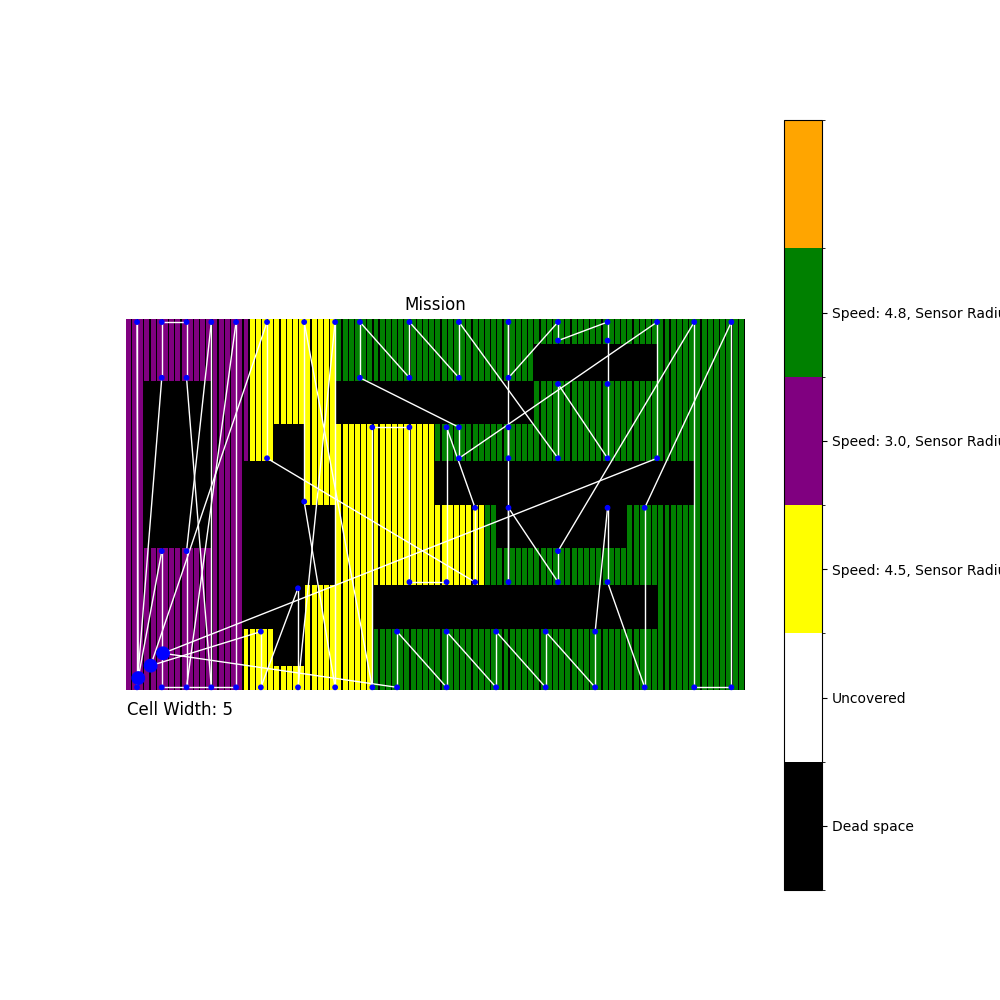
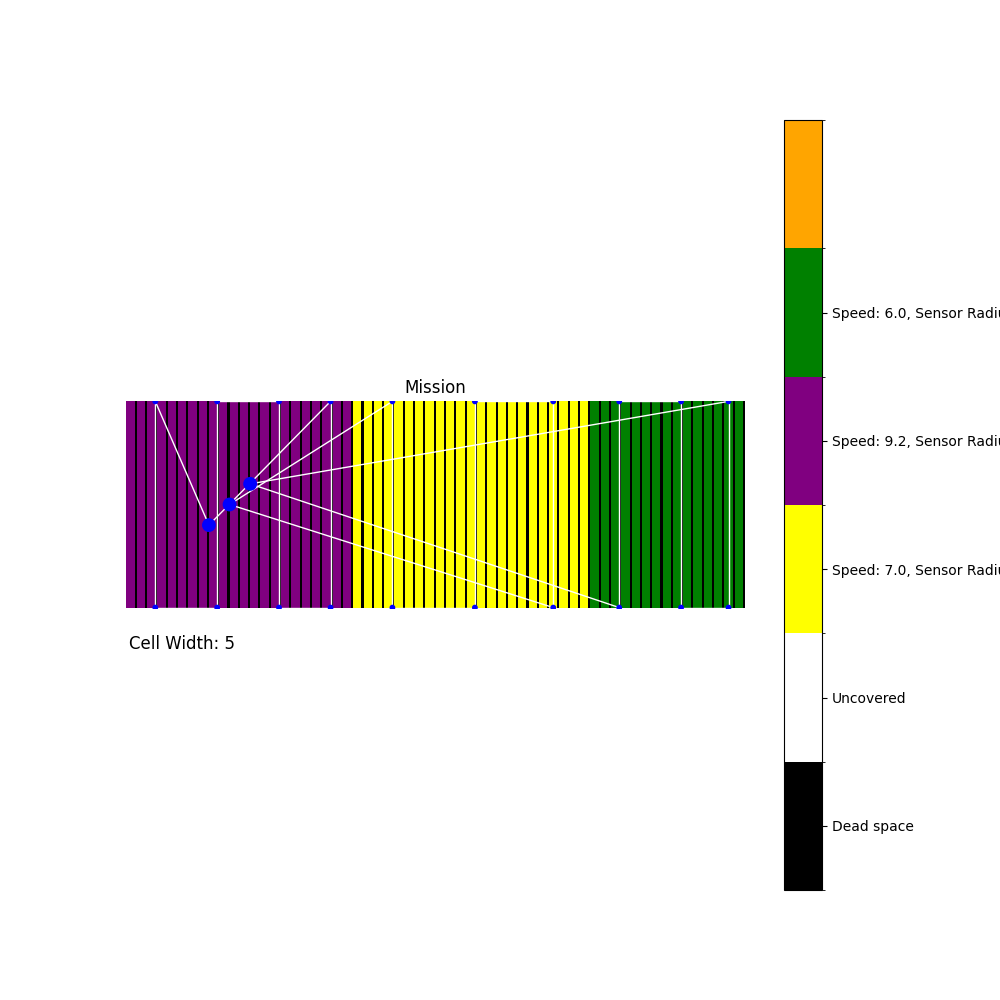
Vehicle assignments are now at the ends of the cells. Multiple surveys can be injected before deployment.

Changed region(s): [[0.124, 0.279, 0.744, 0.713], [0.992, 0.434, 1.0, 0.465]]

diff --git a/py/HARMONY/MOOSHandler.py b/py/HARMONY/MOOSHandler.py
@@ -93,17 +93,15 @@ class MOOSHandler:
 
                 case "SURVEY_AREA":
                     # Rounding Survey Area to match sensor ranges
-                    # print("SENSOR RANGES: " + str(self.sensor_ranges))
                     if len(self.sensor_ranges) > 1:
                         self.gcd = utils.gcd_of_list(self.sensor_ranges)
                     elif len(self.sensor_ranges) == 1:
                         self.gcd = self.sensor_ranges[0]
-                    # print("GCD: " + str(self.gcd))
-
                     self.survey_area = utils.parseSurveyAreaAndCreateObject(msg.string(), self.gcd)
                     self.survey_area_land = utils.parseSurveyAreaAndCreateObject(msg.string(), self.gcd)
                     self.survey_area_land.position = (self.survey_area.position[0] - self.survey_area.width - 100, self.survey_area.position[1] - self.survey_area.height - 100) #mirror survey area on both axis
-
+                    self.notify("VIEW_GRID", self.survey_area.areaToGrid("Survey Area UUV"));
+                    self.assign_waypoints_and_notify_uavs()
 
                 # Mostly for receiving current x,y
                 case "NODE_REPORT":
@@ -128,7 +126,6 @@ class MOOSHandler:
                     if len(self.completed_uavs) == len(self.available_uavs):
                         print("All UAVs finished")
                         for uav in self.completed_uavs.keys():
-                            print("---------------here-------------")
                             self.notify("VIEW_SEGLIST", f'pts={{}}, label={uav}_wpt_survey, active=false')  # Clears waypoint display
 
 
@@ -208,6 +205,17 @@ class MOOSHandler:
                 # CHANGE THIS LINE BELOW
                 self.notify(wpt_var, points.string())
 
+    # Remove the waypoint information from a list of vehicles
+    def unassign_and_notify(self, vehiclelist):
+        # Notify MOOSDB with empty waypoint updates
+        for name in vehiclelist:
+            # assignment.reposition();
+            waypoints_str = f'' # TODO: Not working
+            wpt_var = f"{name}_WPT_UPDATE"
+            print(f"SENDING {waypoints_str} to {wpt_var}")
+            self.notify(wpt_var, waypoints_str)
+
+            # color = colors[count % len(colors)]  # for waypoint color
 
 
 # Array of colors that can be used for pMarineViewer geometry. Not a complete list

diff --git a/py/HARMONY/AlgorithmDevelopment/pathPlanning.py b/py/HARMONY/AlgorithmDevelopment/pathPlanning.py
@@ -9,7 +9,7 @@ import networkx as nx
 # To be done after sensor range decomposition.
 def calculate_vehicle_paths(mission: MissionArea):
     vehicle_paths = {}   # Key: vehicle name. Value: list of nodes in order of traversal TODO: not vehicle name yet
-
+    cellAdjustConst = 0 # TODO Transformation may not be needed. mission.cellDimension
 
     for vehicle in mission.vehicles:
         vehicle_sorted_nodes = sort_by_x_then_y(list(mission.vehicle_assignments[vehicle]))
@@ -44,9 +44,13 @@ def calculate_vehicle_paths(mission: MissionArea):
                         topIsEntrance = not topIsEntrance
 
                     if topIsEntrance:
-                        vehicle_entrance_exit_pairs[top_cell] = bottom_cell
+                        adjusted_top_cell = (top_cell[0], top_cell[1] + cellAdjustConst)
+                        adjusted_bottom_cell = (bottom_cell[0], bottom_cell[1] - cellAdjustConst)
+                        vehicle_entrance_exit_pairs[adjusted_top_cell] = adjusted_bottom_cell
                     else:
-                        vehicle_entrance_exit_pairs[bottom_cell] = top_cell
+                        adjusted_top_cell = (top_cell[0], top_cell[1] + cellAdjustConst)
+                        adjusted_bottom_cell = (bottom_cell[0], bottom_cell[1] - cellAdjustConst)
+                        vehicle_entrance_exit_pairs[adjusted_bottom_cell] = adjusted_top_cell
 
 
                     topIsEntrance = not topIsEntrance

diff --git a/py/HARMONY/AlgorithmDevelopment/sensorRangeDecomposition.py b/py/HARMONY/AlgorithmDevelopment/sensorRangeDecomposition.py
@@ -11,6 +11,7 @@ def sensor_range_decomposition(mission: MissionArea):
         new_pos = {}
         new_vehicle_assignments = {}
         combined_nodes = set()
+        cellTransformConstant = mission.cellDimension/2           # Used to bring cell nodes to the ends of the cells
         for vehicle in mission.vehicles:
                 remaining_nodes = set(mission.vehicle_assignments[vehicle])
                 new_vehicle_assignments[vehicle] = []
@@ -21,8 +22,8 @@ def sensor_range_decomposition(mission: MissionArea):
 
                         new_x = int((largest_x + smallest_x)/2)
 
-                        top_cell = (new_x, largest_y)
-                        bottom_cell = (new_x, smallest_y)
+                        top_cell = (new_x, largest_y + cellTransformConstant)
+                        bottom_cell = (new_x, smallest_y - cellTransformConstant)
 
                         if top_cell not in new_graph.nodes() and bottom_cell not in new_graph.nodes(): # TODO: bandaid fix to problem with more than top and bottom in a cell
 

diff --git a/py/HARMONY/main.py b/py/HARMONY/main.py
@@ -35,13 +35,13 @@ def main():
 
 
         if moos_handler.survey_area is not None:
-            moos_handler.notify("VIEW_GRID", moos_handler.survey_area.areaToGrid("Survey Area UUV"));
-            # print(moos_handler.survey_area.areaToGrid())
-            moos_handler.assign_waypoints_and_notify_uavs()
-            while(len(moos_handler.completed_uavs) != len(moos_handler.available_uavs)):
+            # moos_handler.assign_waypoints_and_notify_uavs()
+            while(len(moos_handler.completed_uavs) != len(moos_handler.available_uavs)): # Wait for all UAVs to return
+
                 messages = moos_handler.fetch_messages()
                 moos_handler.parse_incoming_messages(messages);
                 time.sleep(1)
+            moos_handler.completed_uavs = {}
             moos_handler.assign_waypoints_and_notify_uuvs()
 
             moos_handler.survey_area = None  # Reset survey area for the next iteration
